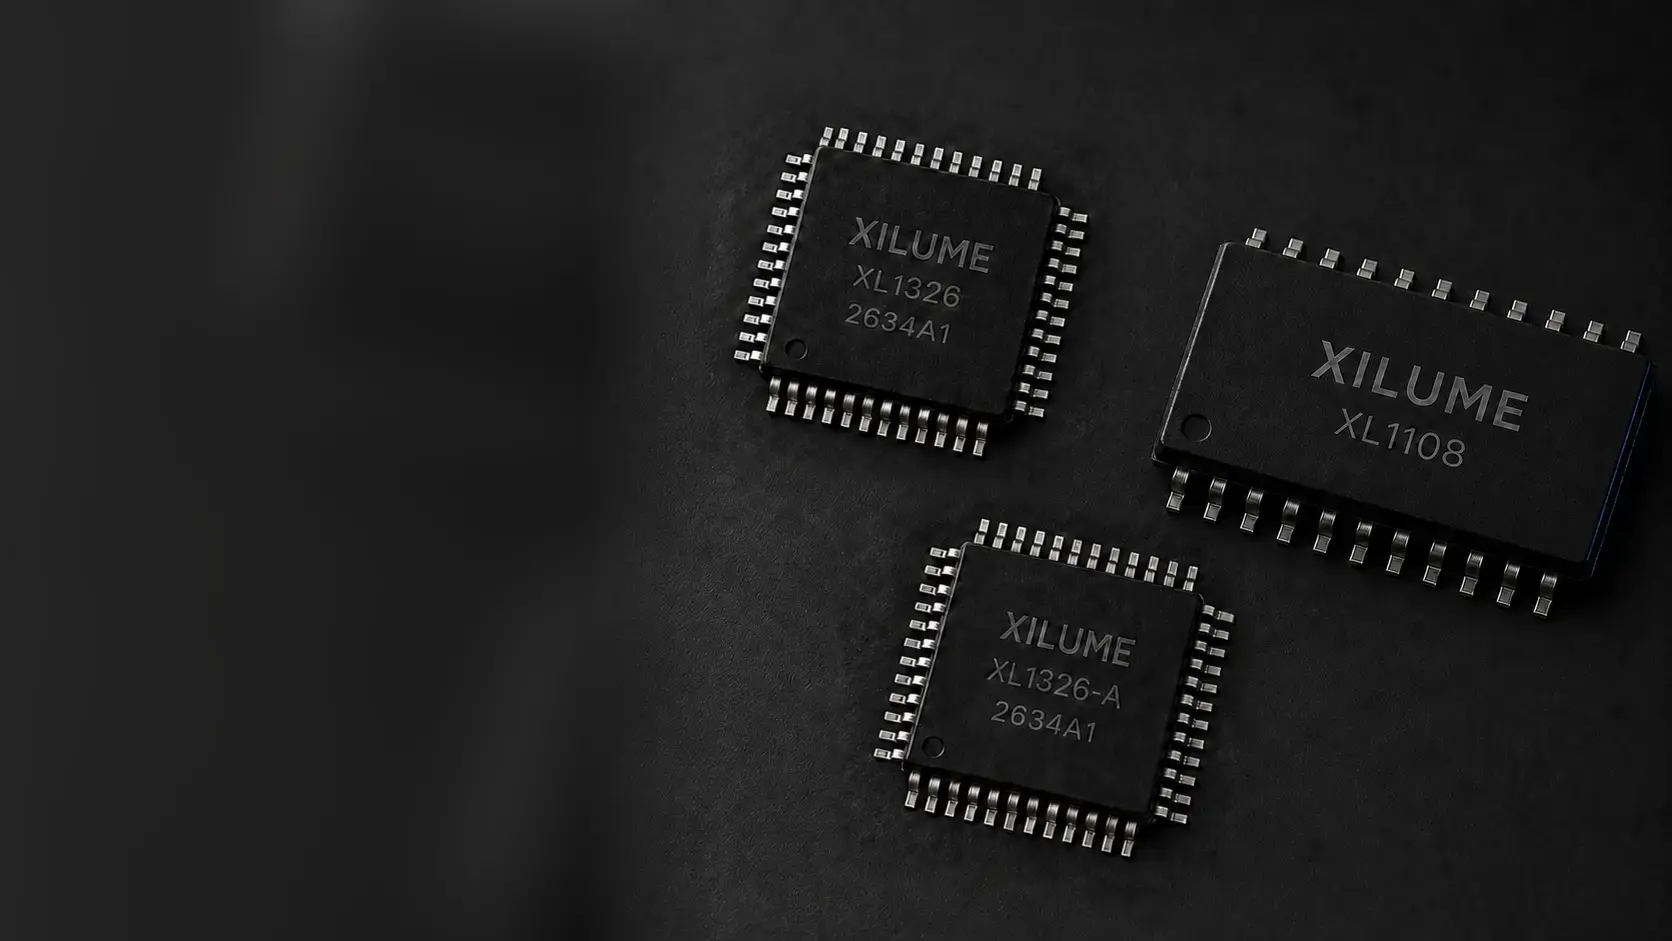
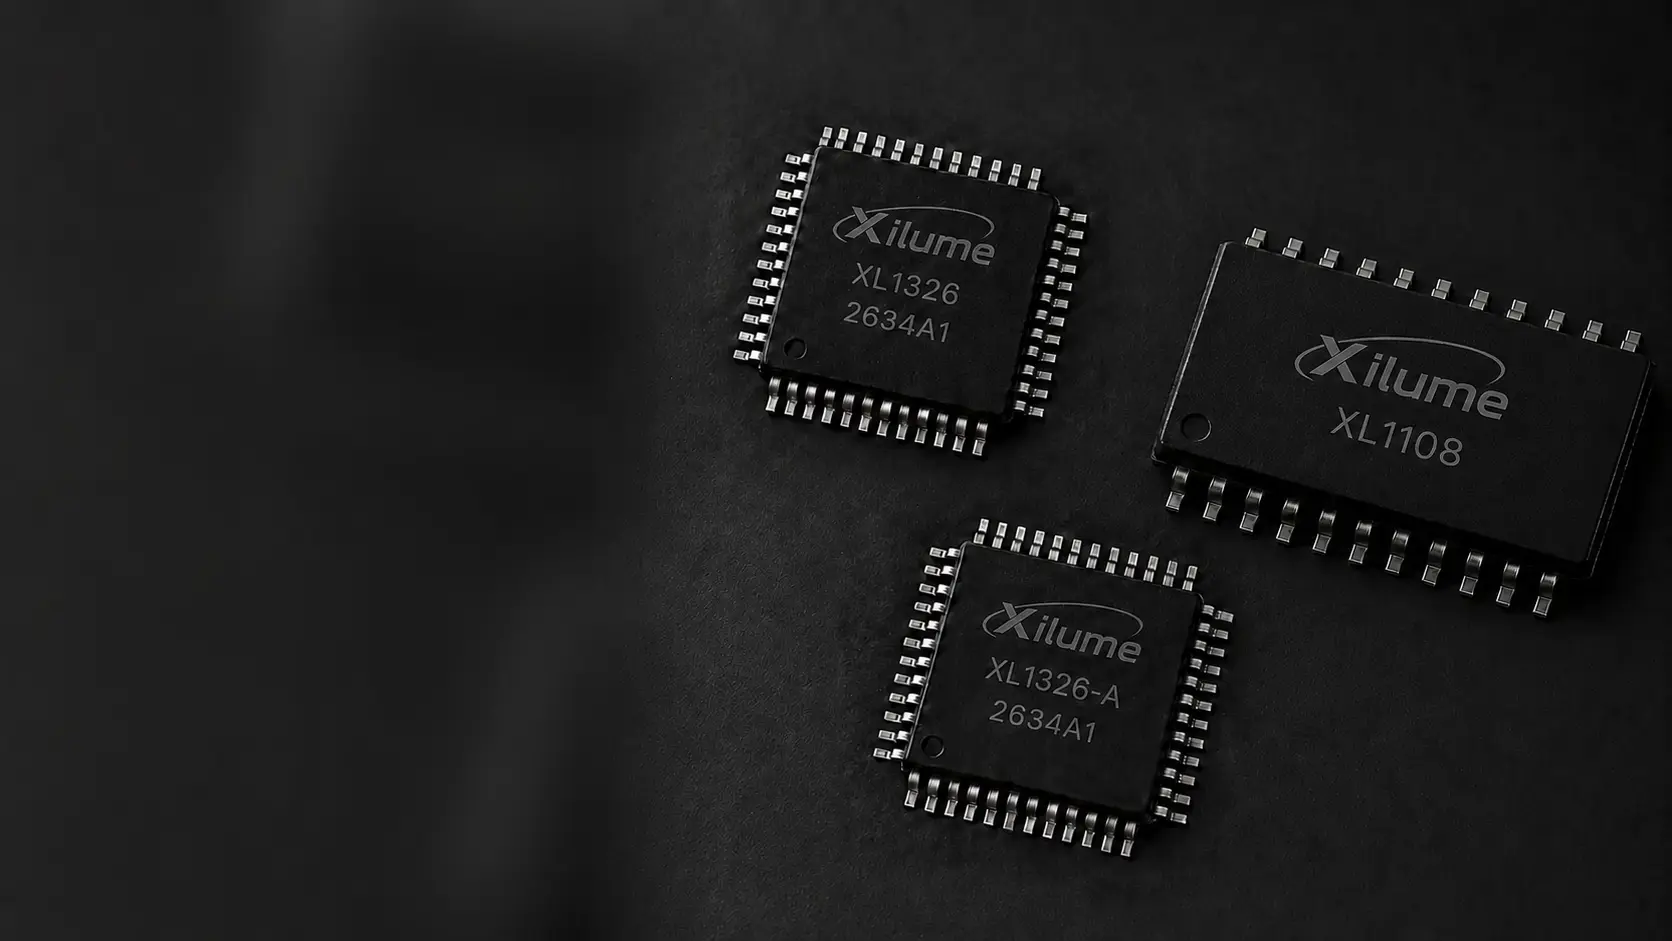
Restore full Xilume halo markings on chip hero

diff --git a/zh-cn/index.html b/zh-cn/index.html
@@ -11,7 +11,7 @@
   <meta name="application-name" content="熙联迈">
   <meta name="apple-mobile-web-app-title" content="熙联迈">
   <meta name="theme-color" content="#020712">
-  <link rel="preload" as="image" href="/images/chip-family-hero-xl1326-v3.webp">
+  <link rel="preload" as="image" href="/images/chip-family-hero-xl1326-v4.webp">
   <link rel="stylesheet" href="/styles.css?v=20260826-1">
   <meta name="robots" content="index, follow">
   <link rel="canonical" href="https://xilume.co/zh-cn/">
@@ -84,7 +84,7 @@
       <h1 class="sr-only">熙联迈</h1>
       <div class="product-hero-stage">
         <article class="product-hero-slide product-hero-chip is-active" data-hero-slide role="tabpanel" aria-label="第 1 项，共 5 项：熙联迈 XL 接口芯片">
-          <img class="chip-hero-backdrop" src="/images/chip-family-hero-xl1326-v3.webp" data-hero-src="/images/chip-family-hero-xl1326-v3.webp" width="1672" height="941" fetchpriority="high" alt="熙联迈 XL1326、XL1108 和 XL1326-A 接口芯片，其中 XL1326 与 XL1326-A 均为 48 脚 LQFP 封装">
+          <img class="chip-hero-backdrop" src="/images/chip-family-hero-xl1326-v4.webp" data-hero-src="/images/chip-family-hero-xl1326-v4.webp" width="1672" height="941" fetchpriority="high" alt="熙联迈 XL1326、XL1108 和 XL1326-A 接口芯片，其中 XL1326 与 XL1326-A 均为 48 脚 LQFP 封装">
           <div class="chip-hero-shade" aria-hidden="true"></div>
           <div class="container chip-hero-layout chip-hero-layout-simple">
             <div class="chip-hero-copy">
@@ -206,7 +206,7 @@
           </a>
 
           <a class="home-category-panel" href="/zh-cn/products/interface-ics/">
-            <img src="/images/chip-family-hero-xl1326-v3.webp" width="1672" height="941" loading="lazy" decoding="async" fetchpriority="low" data-deferred-image alt="熙联迈 XL1326、XL1108 和 XL1326-A 接口芯片系列">
+            <img src="/images/chip-family-hero-xl1326-v4.webp" width="1672" height="941" loading="lazy" decoding="async" fetchpriority="low" data-deferred-image alt="熙联迈 XL1326、XL1108 和 XL1326-A 接口芯片系列">
             <div class="home-category-copy"><span>03</span><small>整机集成</small><h3>接口芯片</h3><p>提供串行通信、CAN FD 和混合接口通道组合</p><b>查看产品系列 <i aria-hidden="true">→</i></b></div>
           </a>
 

diff --git a/index.html b/index.html
@@ -11,7 +11,7 @@
   <meta name="application-name" content="Xilume">
   <meta name="apple-mobile-web-app-title" content="Xilume">
   <meta name="theme-color" content="#020712">
-  <link rel="preload" as="image" href="/images/chip-family-hero-xl1326-v3.webp">
+  <link rel="preload" as="image" href="/images/chip-family-hero-xl1326-v4.webp">
   <link rel="stylesheet" href="styles.css?v=20260826-1">
   <meta name="robots" content="index, follow">
   <link rel="canonical" href="https://xilume.co/">
@@ -83,7 +83,7 @@
       <h1 class="sr-only">Xilume</h1>
       <div class="product-hero-stage">
         <article class="product-hero-slide product-hero-chip is-active" data-hero-slide role="tabpanel" aria-label="1 of 5: Xilume XL interface ICs">
-          <img class="chip-hero-backdrop" src="images/chip-family-hero-xl1326-v3.webp" data-hero-src="images/chip-family-hero-xl1326-v3.webp" width="1672" height="941" fetchpriority="high" alt="Xilume XL1326, XL1108, and XL1326-A interface ICs; XL1326 and XL1326-A use 48-pin LQFP packages">
+          <img class="chip-hero-backdrop" src="images/chip-family-hero-xl1326-v4.webp" data-hero-src="images/chip-family-hero-xl1326-v4.webp" width="1672" height="941" fetchpriority="high" alt="Xilume XL1326, XL1108, and XL1326-A interface ICs; XL1326 and XL1326-A use 48-pin LQFP packages">
           <div class="chip-hero-shade" aria-hidden="true"></div>
           <div class="container chip-hero-layout chip-hero-layout-simple">
             <div class="chip-hero-copy">
@@ -205,7 +205,7 @@
           </a>
 
           <a class="home-category-panel" href="products/interface-ics/">
-            <img src="images/chip-family-hero-xl1326-v3.webp" width="1672" height="941" loading="lazy" decoding="async" fetchpriority="low" data-deferred-image alt="Xilume XL1326, XL1108, and XL1326-A interface IC family">
+            <img src="images/chip-family-hero-xl1326-v4.webp" width="1672" height="941" loading="lazy" decoding="async" fetchpriority="low" data-deferred-image alt="Xilume XL1326, XL1108, and XL1326-A interface IC family">
             <div class="home-category-copy"><span>03</span><small>OEM INTEGRATION</small><h3>Interface ICs</h3><p>Serial, CAN FD, and mixed-interface channel configurations for OEM systems.</p><b>Explore family <i aria-hidden="true">→</i></b></div>
           </a>
 

diff --git a/zh-cn/about/index.html b/zh-cn/about/index.html
@@ -5,7 +5,7 @@
   <meta name="description" content="熙联迈为互联系统设计接口芯片、接口硬件、主机软件和集成资源">
   <title>关于熙联迈</title>
   <link rel="icon" href="/xilume-icon-96.png" type="image/png" sizes="96x96"><link rel="apple-touch-icon" href="/xilume-icon-180.png" sizes="180x180"><link rel="stylesheet" href="/styles.css?v=20260826-1"><script defer src="/site.js?v=20260826-1"></script>
-  <meta name="robots" content="index, follow"><link rel="canonical" href="https://xilume.co/zh-cn/about/"><link rel="alternate" hreflang="en" href="https://xilume.co/about/"><link rel="alternate" hreflang="zh-CN" href="https://xilume.co/zh-cn/about/"><link rel="alternate" hreflang="x-default" href="https://xilume.co/about/"><meta property="og:site_name" content="熙联迈"><meta property="og:type" content="website"><meta property="og:title" content="关于熙联迈"><meta property="og:description" content="从原理图设计到主机软件，为接口芯片和接口硬件提供支持"><meta property="og:url" content="https://xilume.co/zh-cn/about/"><meta property="og:image" content="https://xilume.co/images/chip-family-hero-xl1326-v3.webp">
+  <meta name="robots" content="index, follow"><link rel="canonical" href="https://xilume.co/zh-cn/about/"><link rel="alternate" hreflang="en" href="https://xilume.co/about/"><link rel="alternate" hreflang="zh-CN" href="https://xilume.co/zh-cn/about/"><link rel="alternate" hreflang="x-default" href="https://xilume.co/about/"><meta property="og:site_name" content="熙联迈"><meta property="og:type" content="website"><meta property="og:title" content="关于熙联迈"><meta property="og:description" content="从原理图设计到主机软件，为接口芯片和接口硬件提供支持"><meta property="og:url" content="https://xilume.co/zh-cn/about/"><meta property="og:image" content="https://xilume.co/images/chip-family-hero-xl1326-v4.webp">
   <link rel="stylesheet" href="/zh-cn.css?v=20260826-1">
 </head>
 <body>

diff --git a/about/index.html b/about/index.html
@@ -8,7 +8,7 @@
   <meta name="robots" content="index, follow"><link rel="canonical" href="https://xilume.co/about/">
   <link rel="alternate" hreflang="en" href="https://xilume.co/about/">
   <link rel="alternate" hreflang="zh-CN" href="https://xilume.co/zh-cn/about/">
-  <link rel="alternate" hreflang="x-default" href="https://xilume.co/about/"><meta property="og:site_name" content="Xilume"><meta property="og:type" content="website"><meta property="og:title" content="About Xilume"><meta property="og:description" content="Interface ICs and interface hardware, supported from schematic to host software."><meta property="og:url" content="https://xilume.co/about/"><meta property="og:image" content="https://xilume.co/images/chip-family-hero-xl1326-v3.webp">
+  <link rel="alternate" hreflang="x-default" href="https://xilume.co/about/"><meta property="og:site_name" content="Xilume"><meta property="og:type" content="website"><meta property="og:title" content="About Xilume"><meta property="og:description" content="Interface ICs and interface hardware, supported from schematic to host software."><meta property="og:url" content="https://xilume.co/about/"><meta property="og:image" content="https://xilume.co/images/chip-family-hero-xl1326-v4.webp">
 </head>
 <body>
   <header class="site-header corporate-header"><div class="container header-inner"><a class="brand brand-wordmark" href="../" aria-label="Xilume home"><img src="/images/xilume-wordmark.png" alt="Xilume"></a><nav aria-label="Primary navigation"><a href="../products/">Products</a><a href="/solutions/">Solutions</a><a href="/downloads/">Software &amp; Drivers</a><a href="../applications/">Applications</a><a href="../documentation/">Documentation</a><a href="./" aria-current="page">Company</a><a class="nav-finder" href="../contact/">Contact</a></nav></div></header>

diff --git a/documentation/index.html b/documentation/index.html
@@ -9,7 +9,7 @@
   <link rel="alternate" hreflang="en" href="https://xilume.co/documentation/">
   <link rel="alternate" hreflang="zh-CN" href="https://xilume.co/zh-cn/documentation/">
   <link rel="alternate" hreflang="x-default" href="https://xilume.co/documentation/">
-  <meta property="og:site_name" content="Xilume"><meta property="og:type" content="website"><meta property="og:title" content="Documentation | Xilume"><meta property="og:description" content="Technical resources for Xilume interface ICs and interface hardware."><meta property="og:url" content="https://xilume.co/documentation/"><meta property="og:image" content="https://xilume.co/images/chip-family-hero-xl1326-v3.webp">
+  <meta property="og:site_name" content="Xilume"><meta property="og:type" content="website"><meta property="og:title" content="Documentation | Xilume"><meta property="og:description" content="Technical resources for Xilume interface ICs and interface hardware."><meta property="og:url" content="https://xilume.co/documentation/"><meta property="og:image" content="https://xilume.co/images/chip-family-hero-xl1326-v4.webp">
 </head>
 <body>
   <header class="site-header corporate-header"><div class="container header-inner"><a class="brand brand-wordmark" href="../" aria-label="Xilume home"><img src="/images/xilume-wordmark.png" alt="Xilume"></a><nav aria-label="Primary navigation"><a href="../products/">Products</a><a href="/solutions/">Solutions</a><a href="/downloads/">Software &amp; Drivers</a><a href="../applications/">Applications</a><a href="./" aria-current="page">Documentation</a><a href="../about/">Company</a><a class="nav-finder" href="../contact/">Contact</a></nav></div></header>

diff --git a/zh-cn/documentation/index.html b/zh-cn/documentation/index.html
@@ -6,7 +6,7 @@
   <title>文档 | 熙联迈</title>
   <link rel="icon" href="/xilume-icon-96.png" type="image/png" sizes="96x96"><link rel="apple-touch-icon" href="/xilume-icon-180.png" sizes="180x180"><link rel="stylesheet" href="/styles.css?v=20260826-1"><script defer src="/site.js?v=20260826-1"></script>
   <meta name="robots" content="index, follow"><link rel="canonical" href="https://xilume.co/zh-cn/documentation/"><link rel="alternate" hreflang="en" href="https://xilume.co/documentation/"><link rel="alternate" hreflang="zh-CN" href="https://xilume.co/zh-cn/documentation/"><link rel="alternate" hreflang="x-default" href="https://xilume.co/documentation/">
-  <meta property="og:site_name" content="熙联迈"><meta property="og:type" content="website"><meta property="og:title" content="文档 | 熙联迈"><meta property="og:description" content="熙联迈接口芯片与接口硬件的技术资料"><meta property="og:url" content="https://xilume.co/zh-cn/documentation/"><meta property="og:image" content="https://xilume.co/images/chip-family-hero-xl1326-v3.webp">
+  <meta property="og:site_name" content="熙联迈"><meta property="og:type" content="website"><meta property="og:title" content="文档 | 熙联迈"><meta property="og:description" content="熙联迈接口芯片与接口硬件的技术资料"><meta property="og:url" content="https://xilume.co/zh-cn/documentation/"><meta property="og:image" content="https://xilume.co/images/chip-family-hero-xl1326-v4.webp">
   <link rel="stylesheet" href="/zh-cn.css?v=20260826-1">
 </head>
 <body>

diff --git a/zh-cn/products/index.html b/zh-cn/products/index.html
@@ -71,7 +71,7 @@
               <p>面向整机设计的串行、CAN FD 及混合接口芯片</p>
               <span class="pd-family-card-action">查看 XL 产品组合 <b aria-hidden="true">→</b></span>
             </div>
-            <figure class="pd-family-card-media"><img src="/images/chip-family-hero-xl1326-v3.webp" alt="熙联迈 XL1326、XL1108 和 XL1326-A 接口芯片系列"></figure>
+            <figure class="pd-family-card-media"><img src="/images/chip-family-hero-xl1326-v4.webp" alt="熙联迈 XL1326、XL1108 和 XL1326-A 接口芯片系列"></figure>
           </a>
 
           <a class="pd-family-card pd-family-card-power" href="/zh-cn/products/power-management/">

diff --git a/products/index.html b/products/index.html
@@ -70,7 +70,7 @@
               <p>Serial, CAN FD, and mixed-interface ICs for OEM system design.</p>
               <span class="pd-family-card-action">Explore XL portfolio <b aria-hidden="true">→</b></span>
             </div>
-            <figure class="pd-family-card-media"><img src="/images/chip-family-hero-xl1326-v3.webp" alt="Xilume XL1326, XL1108, and XL1326-A interface IC family"></figure>
+            <figure class="pd-family-card-media"><img src="/images/chip-family-hero-xl1326-v4.webp" alt="Xilume XL1326, XL1108, and XL1326-A interface IC family"></figure>
           </a>
 
           <a class="pd-family-card pd-family-card-power" href="/products/power-management/">

diff --git a/zh-cn/products/interface-ics/index.html b/zh-cn/products/interface-ics/index.html
@@ -20,7 +20,7 @@
   <meta property="og:title" content="XL 接口芯片 | 熙联迈">
   <meta property="og:description" content="XL1326 提供 8 个主机 COM 端口，XL1326-A 仅提供 2 路 CAN FD，两者均采用 48 脚 LQFP 封装">
   <meta property="og:url" content="https://xilume.co/zh-cn/products/interface-ics/">
-  <meta property="og:image" content="https://xilume.co/images/chip-family-hero-xl1326-v3.webp">
+  <meta property="og:image" content="https://xilume.co/images/chip-family-hero-xl1326-v4.webp">
   <link rel="stylesheet" href="/zh-cn.css?v=20260826-1">
 </head>
 <body class="product-directory-page pd-theme-ics ic-overview-page">

diff --git a/products/interface-ics/index.html b/products/interface-ics/index.html
@@ -20,7 +20,7 @@
   <meta property="og:title" content="XL Interface ICs | Xilume">
   <meta property="og:description" content="XL1326 provides eight host COM ports, while XL1326-A provides two CAN FD ports only. Both use a 48-pin LQFP package.">
   <meta property="og:url" content="https://xilume.co/products/interface-ics/">
-  <meta property="og:image" content="https://xilume.co/images/chip-family-hero-xl1326-v3.webp">
+  <meta property="og:image" content="https://xilume.co/images/chip-family-hero-xl1326-v4.webp">
 </head>
 <body class="product-directory-page pd-theme-ics ic-overview-page">
   <header class="site-header corporate-header">
